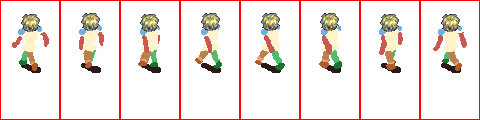
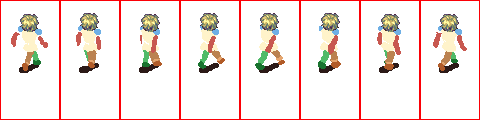
Flipped the ne walk sketch to the right orientation, and added some half-baked guessing at appropriate turn orientations.

diff --git a/src/Game_View.tsx b/src/Game_View.tsx
@@ -11,7 +11,7 @@ import { Tile_Palette_Element } from "./Tile_Palette_Element";
 import { Tilemap_Manager } from "./Tilemap_Manager";
 import { Pathfinder } from "./Pathfinding";
 
-import { Creature } from "./Creature";
+import { Creature, Direction } from "./Creature";
 
 import "./Primary_View.scss";
 import { Point2D, Rectangle } from './interfaces';
@@ -198,6 +198,15 @@ class Game_Manager {
 		}
 	}
 	
+	get_flip_state_from_direction = ( direction: Direction ): boolean => (
+		ƒ.if(	direction == Direction.north_west ||
+				direction == Direction.west ||
+				direction == Direction.south_west,
+					true,
+					false
+		)
+	)
+
 	do_one_frame_of_rendering = () => {
 		this.update_game_state_for_ui(this.game_state);
 		
@@ -210,31 +219,31 @@ class Game_Manager {
 					this.animation_state.is_animating_turn_end = false;
 				} else {
 					_.map( this.get_previous_turn_state().creature_list, (val,idx) => {
+						const direction = val.yield_direction_for_time_in_post_turn_animation(this.get_time_offset());
+
 						this._Asset_Manager.draw_image_for_asset_name({
-							asset_name:					val.yield_walk_asset_for_direction(
-								val.yield_direction_for_time_in_post_turn_animation(this.get_time_offset())
-							), //i.e. 'peasant-se-walk',
+							asset_name:					val.yield_walk_asset_for_direction( direction ), //i.e. 'peasant-se-walk',
 							_BM:						this._Blit_Manager,
 							pos:						val.yield_position_for_time_in_post_turn_animation( this._Tilemap_Manager, this.get_time_offset() ),
 							zorder:						12,
 							current_milliseconds:		this.get_time_offset(),
 							opacity:					1.0,
-							horizontally_flipped:		false,
+							horizontally_flipped:		this.get_flip_state_from_direction(direction),
 							vertically_flipped:			false,
-					})
+						})
 					})
 				}
 
 			} else {
 				_.map( this.get_current_turn_state().creature_list, (val,idx) => {
 					this._Asset_Manager.draw_image_for_asset_name({
-						asset_name:					val.yield_walk_asset_for_direction(1),
+						asset_name:					val.yield_creature_image(),
 						_BM:						this._Blit_Manager,
 						pos:						this._Tilemap_Manager.convert_tile_coords_to_pixel_coords(val.tile_pos),
 						zorder:						12,
 						current_milliseconds:		0,
 						opacity:					1.0,
-						horizontally_flipped:		true,
+						horizontally_flipped:		false,
 						vertically_flipped:			false,
 					})
 

diff --git a/src/Creature.tsx b/src/Creature.tsx
@@ -220,7 +220,7 @@ export class Creature {
 	}
 }
 
-enum Direction {
+export enum Direction {
 	north_east,
 	east,
 	south_east,
